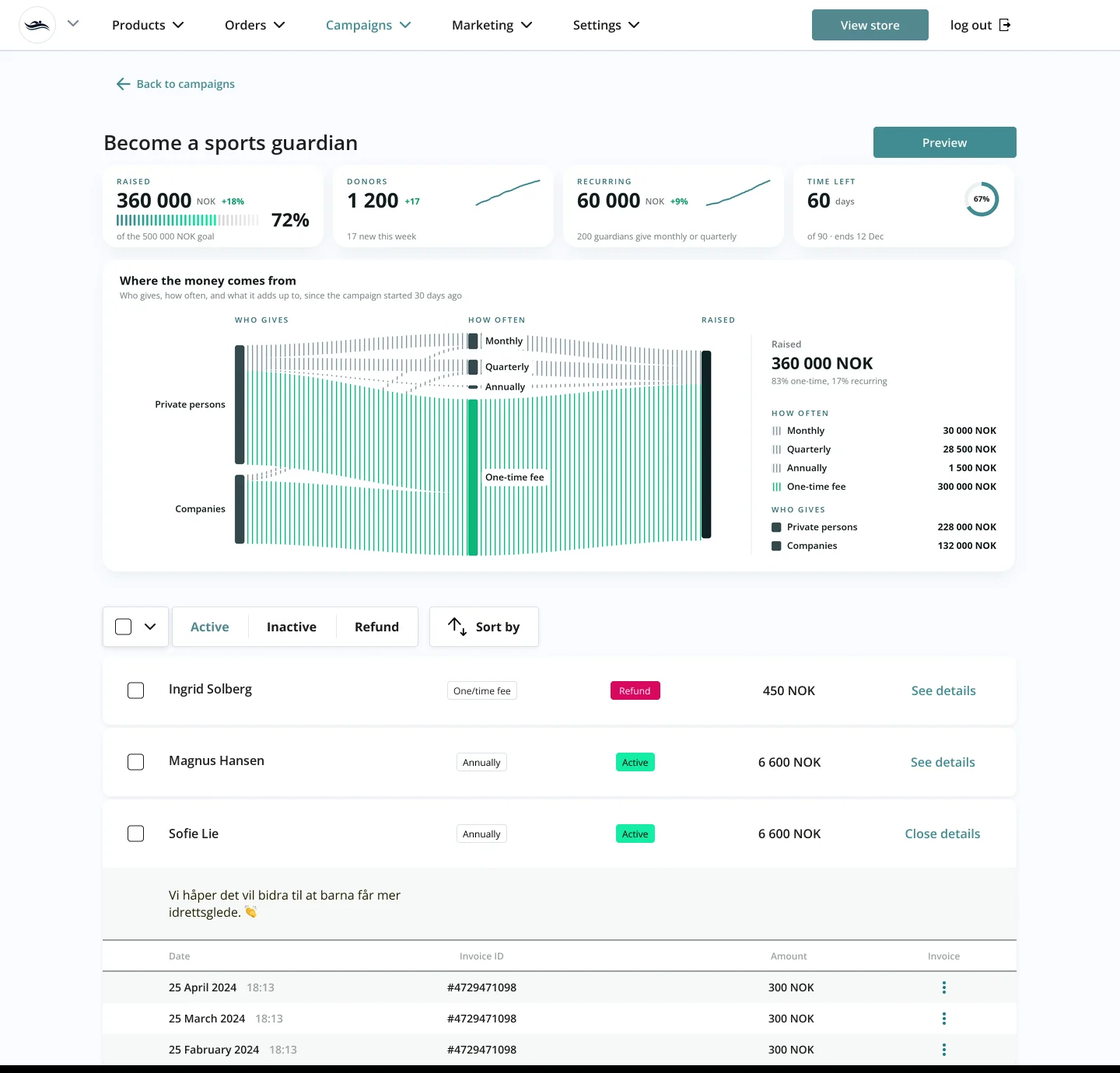
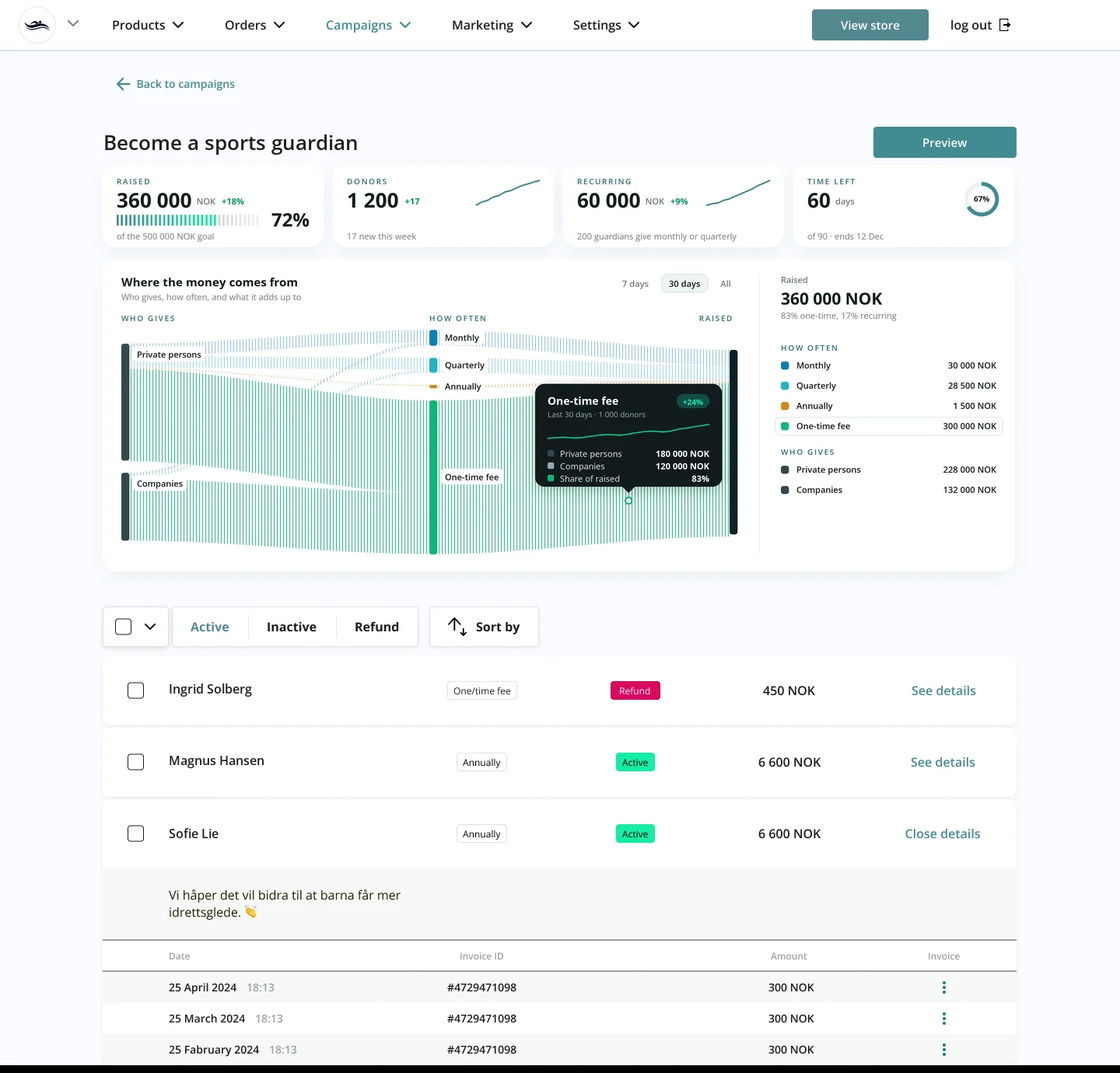
Sport Guardian: refined dashboard flow chart (own colour per frequency, tooltip, no left label column); what a Sankey is and other chart types under the page chart

diff --git a/SportGuardian.html b/SportGuardian.html
@@ -185,6 +185,18 @@ h1{font-size:clamp(34px,5.6vw,80px);line-height:1.03;letter-spacing:-.045em;max-
 @media (prefers-reduced-motion:reduce){.js .rv{opacity:1;transform:none;transition:none}.scroll .vp img{animation:none}}
 
 /* closing mosaic (GEN): rows of tiles sliding sideways on the teal ground */
+/* about the chart, and other chart types (2026-10-13) */
+.charts{display:grid;grid-template-columns:minmax(0,4fr) minmax(0,8fr);gap:clamp(24px,4vw,64px);padding-top:clamp(8px,1vw,16px)}
+.charts h3{margin:0;font-size:clamp(22px,2.2vw,28px);line-height:1.15;font-weight:500;letter-spacing:-.01em}
+.charts .about p{margin:12px 0 0;max-width:62ch;color:var(--muted);font-size:16px;line-height:1.55}
+.charts .about p b{color:var(--ink);font-weight:500}
+.ctypes{list-style:none;margin:16px 0 0;padding:0;display:grid;grid-template-columns:repeat(3,minmax(0,1fr));gap:1px;background:var(--rule);border:1px solid var(--rule)}
+.ctypes li{background:#fff;padding:18px 18px 20px;display:flex;flex-direction:column;gap:6px}
+.ctypes svg{width:56px;height:32px;display:block;margin-bottom:6px}
+.ctypes b{font-weight:500;font-size:16px}
+.ctypes span{color:var(--muted);font-size:14px;line-height:1.45}
+@media (max-width:900px){.charts{grid-template-columns:1fr}.ctypes{grid-template-columns:repeat(2,minmax(0,1fr))}}
+@media (max-width:520px){.ctypes{grid-template-columns:1fr}}
 .mos{position:relative;background:var(--teal);padding-block:clamp(40px,6vw,80px) clamp(72px,8vw,104px);overflow:hidden}
 .ticker{display:flex;width:max-content;animation:slide 40s linear infinite;margin-bottom:clamp(28px,4vw,56px)}
 .ticker span{flex:none;color:#fff;font-size:clamp(56px,11vw,176px);font-weight:500;line-height:.9;letter-spacing:-.04em;text-transform:uppercase;white-space:nowrap;padding-right:.5em}
@@ -296,10 +308,14 @@ footer .wrap{display:flex;justify-content:space-between;gap:16px;flex-wrap:wrap}
 
 <figure class="c5-12 rv" style="--d:.1s"><div class="panel"><img class="el c" src="assets/work/sport-guardian/el-create-donations.webp" alt="From the campaign builder: Accept donations from private persons and companies, and Select donation frequency, from monthly to a one-time fee, each with a short hint." width="1200" height="1183" loading="lazy"></div><figcaption>For the club: who can give and how often, with a hint under every choice.</figcaption></figure>
 
-<figure class="c1-12 rv"><div class="panel"><div class="browser" style="max-width:1000px"><div class="bar" aria-hidden="true"><i></i><i></i><i></i><span>admin.supporter.no</span></div><div class="vp fx" style="--hd:4.514%;aspect-ratio:auto"><img class="hd" src="assets/work/sport-guardian/screen-statistik-head.webp" alt="" width="1440" height="65" loading="lazy"><img src="assets/work/sport-guardian/screen-statistik-body.webp" alt="Campaign statistics in the admin panel: cards for raised with a segmented progress bar, donors, recurring and time left; under them the chart Where the money comes from, private persons 228 000 NOK and companies 132 000 NOK flowing through monthly 30 000, quarterly 28 500, annually 1 500 and one-time 300 000 NOK into 360 000 NOK raised, with the amounts in a legend; then a list of donors with their status." width="1440" height="1315" loading="lazy"></div></div></div><figcaption style="max-width:64ch">The admin panel: what each frequency brings in, and every donor, with refunds and cancellations in one place.</figcaption></figure>
+<figure class="c1-12 rv"><div class="panel"><div class="browser" style="max-width:1000px"><div class="bar" aria-hidden="true"><i></i><i></i><i></i><span>admin.supporter.no</span></div><div class="vp fx" style="--hd:4.514%;aspect-ratio:auto"><img class="hd" src="assets/work/sport-guardian/screen-statistik-head.webp" alt="" width="1440" height="65" loading="lazy"><img src="assets/work/sport-guardian/screen-statistik-body.webp" alt="Campaign statistics in the admin panel: cards for raised with a segmented progress bar, donors, recurring and time left; under them the chart Where the money comes from, private persons 228 000 NOK and companies 132 000 NOK flowing through monthly 30 000, quarterly 28 500, annually 1 500 and one-time 300 000 NOK into 360 000 NOK raised, each frequency in its own colour, a tooltip over the one-time flow with its trend and split, and the amounts in a legend; then a list of donors with their status." width="1440" height="1315" loading="lazy"></div></div></div><figcaption style="max-width:64ch">The admin panel: what each frequency brings in, and every donor, with refunds and cancellations in one place.</figcaption></figure>
       <!-- flow:start -->
       <figure class="c1-12 rv flowfig"><div class="flowpanel"><div class="flowhead"><h3>Where the money comes from</h3><p>Who gives, how often, and what it adds up to, one campaign after 30 days.</p></div><div class="flowscroll" tabindex="0" aria-label="Where the money comes from, chart"><svg class="flowsvg" viewBox="0 0 1200 560" role="img" aria-labelledby="fl-t fl-d"><title id="fl-t">Where the money comes from</title><desc id="fl-d">Private persons give 228 000 NOK and companies 132 000 NOK. By frequency: monthly 30 000, quarterly 28 500, annually 1 500 and one-time 300 000 NOK, together 360 000 NOK raised. The same numbers are in the table below.</desc><defs><pattern id="hatch" width="6" height="8" patternUnits="userSpaceOnUse"><rect x="0" width="1.3" height="8" fill="#fff" fill-opacity=".55"/></pattern><pattern id="hatch-hi" width="6" height="8" patternUnits="userSpaceOnUse"><rect x="0" width="1.6" height="8" fill="#15EDA3"/></pattern></defs><line x1="218.0" y1="96" x2="218.0" y2="538" stroke="#fff" stroke-opacity=".08"/><line x1="598.0" y1="96" x2="598.0" y2="538" stroke="#fff" stroke-opacity=".08"/><line x1="968.0" y1="96" x2="968.0" y2="538" stroke="#fff" stroke-opacity=".08"/><text class="col" x="210" y="80">Who gives</text><text class="col" x="590" y="80">How often</text><text class="col" x="960" y="80">Raised</text><path class="fl" data-f="Monthly" data-s="Private persons" data-v="24 000 NOK" d="M226.0,129.0 C408.0,129.0 408.0,118.7 590.0,118.7 L590.0,140.1 C408.0,140.1 408.0,150.5 226.0,150.5 Z" fill="url(#hatch)"/><path class="fl" data-f="Monthly" data-s="Companies" data-v="6 000 NOK" d="M226.0,392.9 C408.0,392.9 408.0,140.1 590.0,140.1 L590.0,145.5 C408.0,145.5 408.0,398.3 226.0,398.3 Z" fill="url(#hatch)"/><path class="fl" data-f="Quarterly" data-s="Private persons" data-v="22 500 NOK" d="M226.0,150.5 C408.0,150.5 408.0,171.5 590.0,171.5 L590.0,191.6 C408.0,191.6 408.0,170.6 226.0,170.6 Z" fill="url(#hatch)"/><path class="fl" data-f="Quarterly" data-s="Companies" data-v="6 000 NOK" d="M226.0,398.3 C408.0,398.3 408.0,191.6 590.0,191.6 L590.0,197.0 C408.0,197.0 408.0,403.7 226.0,403.7 Z" fill="url(#hatch)"/><path class="fl" data-f="Annually" data-s="Private persons" data-v="1 500 NOK" d="M226.0,170.6 C408.0,170.6 408.0,223.0 590.0,223.0 L590.0,225.0 C408.0,225.0 408.0,172.6 226.0,172.6 Z" fill="url(#hatch)"/><path class="fl hi" data-f="One-time fee" data-s="Private persons" data-v="180 000 NOK" d="M226.0,172.6 C408.0,172.6 408.0,253.0 590.0,253.0 L590.0,414.0 C408.0,414.0 408.0,333.6 226.0,333.6 Z" fill="url(#hatch-hi)"/><path class="fl hi" data-f="One-time fee" data-s="Companies" data-v="120 000 NOK" d="M226.0,403.7 C408.0,403.7 408.0,414.0 590.0,414.0 L590.0,521.3 C408.0,521.3 408.0,511.0 226.0,511.0 Z" fill="url(#hatch-hi)"/><path class="fl" data-f="Monthly" data-s="Raised" data-v="30 000 NOK" d="M606.0,118.7 C783.0,118.7 783.0,159.0 960.0,159.0 L960.0,185.8 C783.0,185.8 783.0,145.5 606.0,145.5 Z" fill="url(#hatch)"/><path class="fl" data-f="Quarterly" data-s="Raised" data-v="28 500 NOK" d="M606.0,171.5 C783.0,171.5 783.0,185.8 960.0,185.8 L960.0,211.3 C783.0,211.3 783.0,197.0 606.0,197.0 Z" fill="url(#hatch)"/><path class="fl" data-f="Annually" data-s="Raised" data-v="1 500 NOK" d="M606.0,223.0 C783.0,223.0 783.0,211.3 960.0,211.3 L960.0,215.3 C783.0,215.3 783.0,227.0 606.0,227.0 Z" fill="url(#hatch)"/><path class="fl hi" data-f="One-time fee" data-s="Raised" data-v="300 000 NOK" d="M606.0,253.0 C783.0,253.0 783.0,215.3 960.0,215.3 L960.0,483.7 C783.0,483.7 783.0,521.3 606.0,521.3 Z" fill="url(#hatch-hi)"/><g class="nd" data-s="Private persons"><rect x="210" y="129.0" width="16" height="203.9" rx="3" fill="#CFE3E4"/><text class="nm" x="192" y="225.0" text-anchor="end">Private persons</text><text class="vl" x="192" y="247.0" text-anchor="end">228 000 NOK</text></g><g class="nd" data-s="Companies"><rect x="210" y="392.9" width="16" height="118.1" rx="3" fill="#CFE3E4"/><text class="nm" x="192" y="446.0" text-anchor="end">Companies</text><text class="vl" x="192" y="468.0" text-anchor="end">132 000 NOK</text></g><g class="nd" data-f="Monthly"><rect x="590" y="118.7" width="16" height="26.8" rx="3" fill="#CFE3E4"/><text class="nm" x="622" y="137.1">Monthly <tspan class="vl">30 000 NOK</tspan></text></g><g class="nd" data-f="Quarterly"><rect x="590" y="171.5" width="16" height="25.5" rx="3" fill="#CFE3E4"/><text class="nm" x="622" y="189.2">Quarterly <tspan class="vl">28 500 NOK</tspan></text></g><g class="nd" data-f="Annually"><rect x="590" y="223.0" width="16" height="4.0" rx="3" fill="#CFE3E4"/><text class="nm" x="622" y="230.0">Annually <tspan class="vl">1 500 NOK</tspan></text></g><g class="nd" data-f="One-time fee"><rect x="590" y="253.0" width="16" height="268.3" rx="3" fill="#15EDA3"/><text class="nm g" x="622" y="392.2">One-time fee <tspan class="vl">300 000 NOK</tspan></text></g><rect x="960" y="159.0" width="16" height="322.0" rx="3" fill="#fff"/><text class="big" x="998" y="326.0">360 000</text><text class="vl" x="1000" y="356.0">NOK raised · 83% one-time</text></svg><div class="fltip" aria-hidden="true"></div></div><table class="vh"><caption>Where the money comes from, in NOK</caption><thead><tr><th scope="col">Who gives</th><th scope="col">Monthly</th><th scope="col">Quarterly</th><th scope="col">Annually</th><th scope="col">One-time fee</th><th scope="col">Total</th></tr></thead><tbody><tr><th scope="row">Private persons</th><td>24 000 NOK</td><td>22 500 NOK</td><td>1 500 NOK</td><td>180 000 NOK</td><td>228 000 NOK</td></tr><tr><th scope="row">Companies</th><td>6 000 NOK</td><td>6 000 NOK</td><td>0 NOK</td><td>120 000 NOK</td><td>132 000 NOK</td></tr><tr><th scope="row">Total</th><td>30 000 NOK</td><td>28 500 NOK</td><td>1 500 NOK</td><td>300 000 NOK</td><td>360 000 NOK</td></tr></tbody></table></div><figcaption>Every krone traced from the donor to the total: most of it comes as one-time gifts, and companies give over a third.</figcaption></figure>
       <!-- flow:end -->
+      <div class="c1-12 rv charts">
+        <div class="about"><h3>What this chart is</h3><p><b>A Sankey diagram.</b> Each band is as wide as the amount it carries, so you can follow the money from who gives, through how often they give, to the total.</p><p><b>When to use it:</b> when a whole splits and merges across stages and the question is where the volume goes, as with a budget, the money in a campaign, or the paths people take through a product. With more than about a dozen nodes, or when exact values must be compared, a table or a bar chart reads better.</p></div>
+        <div><h3>Other charts, and when to use them</h3><ul class="ctypes"><li><svg viewBox="0 0 56 32" aria-hidden="true" focusable="false"><rect x="4" y="16" width="8" height="14" rx="1" fill="#CFE3E4"/><rect x="16" y="6" width="8" height="24" rx="1" fill="#418B91"/><rect x="28" y="12" width="8" height="18" rx="1" fill="#CFE3E4"/><rect x="40" y="20" width="8" height="10" rx="1" fill="#CFE3E4"/></svg><b>Bar chart</b><span>Compares amounts across categories, such as money raised per club or per campaign.</span></li><li><svg viewBox="0 0 56 32" aria-hidden="true" focusable="false"><path d="M3 26 L14 20 L24 22 L34 11 L44 13 L53 4" fill="none" stroke="#418B91" stroke-width="2" stroke-linejoin="round" stroke-linecap="round"/></svg><b>Line chart</b><span>Shows a trend over time, such as money raised day by day.</span></li><li><svg viewBox="0 0 56 32" aria-hidden="true" focusable="false"><path d="M3 26 L14 19 L24 21 L34 11 L44 12 L53 5 V30 H3 Z" fill="#CFE3E4"/><path d="M3 26 L14 19 L24 21 L34 11 L44 12 L53 5" fill="none" stroke="#418B91" stroke-width="2" stroke-linejoin="round"/></svg><b>Area chart</b><span>A line chart with the volume filled in: for a total that builds up over time.</span></li><li><svg viewBox="0 0 56 32" aria-hidden="true" focusable="false"><rect x="4" y="14" width="10" height="16" fill="#418B91"/><rect x="4" y="8" width="10" height="6" fill="#CFE3E4"/><rect x="22" y="10" width="10" height="20" fill="#418B91"/><rect x="22" y="3" width="10" height="7" fill="#CFE3E4"/><rect x="40" y="18" width="10" height="12" fill="#418B91"/><rect x="40" y="12" width="10" height="6" fill="#CFE3E4"/></svg><b>Stacked bar chart</b><span>Parts of a whole, compared across groups, such as one-time and recurring gifts per campaign.</span></li><li><svg viewBox="0 0 56 32" aria-hidden="true" focusable="false"><text x="2" y="21" font-size="12" font-weight="600" fill="#0E0E0E" font-family="sans-serif">60k</text><path d="M28 22 L33 19 L38 20 L43 14 L48 13 L53 8" fill="none" stroke="#418B91" stroke-width="1.6" stroke-linejoin="round" stroke-linecap="round"/></svg><b>Sparkline</b><span>A tiny trend without axes, next to a number on a card, as on the dashboard above.</span></li><li><svg viewBox="0 0 56 32" aria-hidden="true" focusable="false"><circle cx="28" cy="16" r="11" fill="none" stroke="#CFE3E4" stroke-width="5"/><path d="M28 5 A11 11 0 1 1 18.5 21.5" fill="none" stroke="#418B91" stroke-width="5"/></svg><b>Donut or progress ring</b><span>One share of a whole, or progress to a goal; reads best with one to three parts.</span></li><li><svg viewBox="0 0 56 32" aria-hidden="true" focusable="false"><rect x="4" y="3" width="48" height="6" rx="1" fill="#418B91"/><rect x="11" y="12" width="34" height="6" rx="1" fill="#418B91" fill-opacity=".7"/><rect x="18" y="21" width="20" height="6" rx="1" fill="#418B91" fill-opacity=".45"/></svg><b>Funnel chart</b><span>How many people drop off between the steps of a flow, from the campaign page to the payment.</span></li><li><svg viewBox="0 0 56 32" aria-hidden="true" focusable="false"><rect x="4" y="3" width="9" height="8" rx="1" fill="#418B91" fill-opacity="0.2"/><rect x="14" y="3" width="9" height="8" rx="1" fill="#418B91" fill-opacity="0.5"/><rect x="24" y="3" width="9" height="8" rx="1" fill="#418B91" fill-opacity="0.9"/><rect x="34" y="3" width="9" height="8" rx="1" fill="#418B91" fill-opacity="0.6"/><rect x="44" y="3" width="9" height="8" rx="1" fill="#418B91" fill-opacity="0.3"/><rect x="4" y="12" width="9" height="8" rx="1" fill="#418B91" fill-opacity="0.4"/><rect x="14" y="12" width="9" height="8" rx="1" fill="#418B91" fill-opacity="0.8"/><rect x="24" y="12" width="9" height="8" rx="1" fill="#418B91" fill-opacity="1"/><rect x="34" y="12" width="9" height="8" rx="1" fill="#418B91" fill-opacity="0.7"/><rect x="44" y="12" width="9" height="8" rx="1" fill="#418B91" fill-opacity="0.2"/><rect x="4" y="21" width="9" height="8" rx="1" fill="#418B91" fill-opacity="0.1"/><rect x="14" y="21" width="9" height="8" rx="1" fill="#418B91" fill-opacity="0.3"/><rect x="24" y="21" width="9" height="8" rx="1" fill="#418B91" fill-opacity="0.5"/><rect x="34" y="21" width="9" height="8" rx="1" fill="#418B91" fill-opacity="0.4"/><rect x="44" y="21" width="9" height="8" rx="1" fill="#418B91" fill-opacity="0.15"/></svg><b>Heatmap</b><span>Patterns across two dimensions, such as donations by weekday and hour.</span></li><li><svg viewBox="0 0 56 32" aria-hidden="true" focusable="false"><circle cx="6" cy="26" r="2.6" fill="#418B91"/><circle cx="12" cy="23" r="2.6" fill="#418B91"/><circle cx="16" cy="24" r="2.6" fill="#418B91"/><circle cx="21" cy="19" r="2.6" fill="#418B91"/><circle cx="26" cy="18" r="2.6" fill="#418B91"/><circle cx="30" cy="15" r="2.6" fill="#418B91"/><circle cx="35" cy="14" r="2.6" fill="#418B91"/><circle cx="39" cy="10" r="2.6" fill="#418B91"/><circle cx="44" cy="11" r="2.6" fill="#418B91"/><circle cx="49" cy="6" r="2.6" fill="#418B91"/><circle cx="24" cy="25" r="2.6" fill="#418B91"/><circle cx="42" cy="20" r="2.6" fill="#418B91"/></svg><b>Scatter plot</b><span>How two measures relate, such as the size of a gift and how often the donor gives.</span></li></ul></div>
+      </div>
 
 </div>
   </section>

diff --git a/tools/sport-guardian/sankey.py b/tools/sport-guardian/sankey.py
@@ -77,14 +77,21 @@ def dashboard_sankey(im, H_BLOCK=470, chart=True):
 
     if not chart:
         return out
-    # the flow card (2026-10-13, her request: the "Where the money comes from" chart on the dashboard too, drawn like
-    # the page's own chart as fields of thin vertical lines, One-time fee in green, the rest grey; the amounts are not
-    # written on the chart but in a legend with markers on the right)
+    # the flow card (2026-10-13, her requests: the "Where the money comes from" chart on the dashboard too; then
+    # "more refined, each flow its own colour", no wide label column on the left, and a tooltip like her node-network
+    # reference: the screen shows the chart as if the pointer rests on One-time fee, with a dark tooltip card)
+    from PIL import ImageChops
     s = S; y1 = y0+h0+16; w1 = 1305-x0; h1 = H_BLOCK-(y1-207)-12
     c = card(x0, y1, w1, h1); d = ImageDraw.Draw(c)
-    d.text((22*s, 16*s), 'Where the money comes from', font=FONT('Bold', 15*s), fill=INKD)
-    d.text((22*s, 38*s), 'Who gives, how often, and what it adds up to, since the campaign started 30 days ago', font=FONT('Regular', 11*s), fill=MUT)
-    ct, cb, gapn = 96*s, (h1-22)*s, 14*s
+    d.text((24*s, 18*s), 'Where the money comes from', font=FONT('Bold', 15*s), fill=INKD)
+    d.text((24*s, 40*s), 'Who gives, how often, and what it adds up to', font=FONT('Regular', 11*s), fill=MUT)
+    # period switch, top right of the chart area
+    pf = FONT('SemiBold', 11*s); px = 668*s
+    for k, t in enumerate(['7 days', '30 days', 'All']):
+        tw = d.textlength(t, font=pf); on = k == 1
+        if on: d.rounded_rectangle((px-10*s, 18*s, px+tw+10*s, 42*s), 8*s, fill=(238, 244, 245), outline=(214, 226, 228), width=s)
+        d.text((px, 23*s), t, font=pf, fill=INKD if on else MUT); px += tw+26*s
+    ct, cb, gapn = 92*s, (h1-24)*s, 16*s
     total = sum(FLOWS.values()); kk = ((cb-ct)-gapn*3)/total
     hgt = lambda v: max(v*kk, 4*s)
 
@@ -95,68 +102,87 @@ def dashboard_sankey(im, H_BLOCK=470, chart=True):
         return pos
     srcs = ['Private persons', 'Companies']; sv = [sum(v for (a, b), v in FLOWS.items() if a == n) for n in srcs]
     fr = [n for n, _ in FREQ]; fv = [sum(v for (a, b), v in FLOWS.items() if b == n) for n in fr]
-    xL, xM, xR, nw = 170*s, 470*s, 770*s, 12*s
+    col = dict(FREQ); FOCUS = 'One-time fee'
+    xL, xM, xR, nw = 24*s, 420*s, 806*s, 10*s
     P = stack(srcs, sv); M = stack(fr, fv)
     ry = ct+((cb-ct)-total*kk)/2; R = [ry, ry+total*kk, ry]
-    GREY, HI = (128, 150, 155), (13, 181, 122)
-    m_grey = Image.new('L', c.size, 0); m_hi = Image.new('L', c.size, 0)
-    dg, dh = ImageDraw.Draw(m_grey), ImageDraw.Draw(m_hi)
+    masks = {f: Image.new('L', c.size, 0) for f in fr}
     for f in fr:
+        md = ImageDraw.Draw(masks[f])
         for sname in srcs:
             v = FLOWS.get((sname, f))
             if not v: continue
             h = max(v*kk, 2*s); a0 = P[sname][2]; P[sname][2] += h; b0 = M[f][2]; M[f][2] += h
-            _ribbon(dh if f == 'One-time fee' else dg, xL+nw, a0, a0+h, xM, b0, b0+h, 255)
+            _ribbon(md, xL+nw, a0, a0+h, xM, b0, b0+h, 255)
     for f in fr:
         h = max(M[f][1]-M[f][0], 2*s); a0 = M[f][0]; b0 = R[2]; R[2] += (M[f][1]-M[f][0])
-        _ribbon(dh if f == 'One-time fee' else dg, xM+nw, a0, a0+h, xR, b0, b0+h, 255)
-    # thin vertical lines, 6 px apart, as on the page's chart
+        _ribbon(ImageDraw.Draw(masks[f]), xM+nw, a0, a0+h, xR, b0, b0+h, 255)
+    # fine vertical lines, 1 px every 4 px; the hovered flow at full strength, the others quieter
     stripes = Image.new('L', c.size, 0); sd = ImageDraw.Draw(stripes)
-    for x in range(0, c.width, 6*s): sd.rectangle((x, 0, x+int(1.4*s)-1, c.height), fill=255)
-    from PIL import ImageChops
-    for m, colr in ((m_grey, GREY), (m_hi, HI)):
-        lay = Image.new('RGBA', c.size, colr+(0,)); lay.putalpha(ImageChops.multiply(m, stripes)); c = Image.alpha_composite(c, lay)
+    for x in range(0, c.width, 4*s): sd.rectangle((x, 0, x+s-1, c.height), fill=255)
+    for f in fr:
+        a = ImageChops.multiply(masks[f], stripes).point(lambda v, k=(235 if f == FOCUS else 120): v*k//255)
+        lay = Image.new('RGBA', c.size, col[f]+(0,)); lay.putalpha(a); c = Image.alpha_composite(c, lay)
     d = ImageDraw.Draw(c)
     hf = FONT('SemiBold', 10*s)
-    for x, t in ((xL, 'WHO GIVES'), (xM, 'HOW OFTEN'), (xR, 'RAISED')):
-        _tracked(d, (x, 70*s), t, hf, LAB, 1.6*s)
-    nf = FONT('SemiBold', 12*s); NODE = (52, 72, 76)
+    for x, t in ((xL, 'WHO GIVES'), (xM, 'HOW OFTEN')):
+        _tracked(d, (x, 68*s), t, hf, LAB, 1.6*s)
+    rt = 'RAISED'; _tracked(d, (xR+nw-(len(rt)*8.2)*s, 68*s), rt, hf, LAB, 1.6*s)
+    lf = FONT('SemiBold', 11*s); NODE = (52, 72, 76)
+
+    def plate(x, y, t, fill=INKD):  # a small white plate so a label reads over the lines
+        tw = d.textlength(t, font=lf); d.rounded_rectangle((x-5*s, y-3*s, x+tw+5*s, y+17*s), 5*s, fill=(255, 255, 255))
+        d.text((x, y), t, font=lf, fill=fill)
     for n in srcs:
-        a, b = P[n][0], P[n][1]; d.rounded_rectangle((xL, a, xL+nw, b), 3*s, fill=NODE); ym = (a+b)/2
-        d.text((xL-12*s-d.textlength(n, font=nf), ym-9*s), n, font=nf, fill=INKD)
+        a, b = P[n][0], P[n][1]; d.rounded_rectangle((xL, a, xL+nw, b), 3*s, fill=NODE)
+        plate(xL+nw+10*s, a+6*s, n)
     for n in fr:
-        a, b = M[n][0], max(M[n][1], M[n][0]+4*s); hi = n == 'One-time fee'
-        d.rounded_rectangle((xM, a, xM+nw, b), 2*s, fill=HI if hi else NODE); ym = (a+b)/2
-        tw = d.textlength(n, font=nf)  # a white label plate so the name reads over the lines
-        d.rounded_rectangle((xM+nw+5*s, ym-11*s, xM+nw+15*s+tw, ym+11*s), 5*s, fill=(255, 255, 255))
-        d.text((xM+nw+10*s, ym-9*s), n, font=nf, fill=INKD)
+        a, b = M[n][0], max(M[n][1], M[n][0]+4*s); ym = (a+b)/2
+        d.rounded_rectangle((xM, a, xM+nw, b), 3*s, fill=col[n])
+        plate(xM+nw+10*s, ym-8*s, n)
     d.rounded_rectangle((xR, R[0], xR+nw, R[1]), 3*s, fill=(14, 34, 37))
-    # the legend: every amount next to a marker that matches its flow
-    lx, rx = 860*s, (w1-24)*s
-    d.line((lx-26*s, ct, lx-26*s, cb), fill=(230, 236, 238), width=s)
-    y = ct+4*s
-    d.text((lx, y), 'Raised', font=nf, fill=MUT)
-    d.text((lx, y+18*s), '360 000 NOK', font=FONT('Bold', 21*s), fill=INKD)
-    d.text((lx, y+48*s), '83% one-time, 17% recurring', font=FONT('Regular', 11*s), fill=MUT)
-    vf = FONT('Bold', 12*s)
 
-    def mark(x, yc, kind):
-        box = (x, yc-6*s, x+12*s, yc+6*s)
-        if kind == 'node':
-            d.rounded_rectangle(box, 2*s, fill=NODE); return
-        col = HI if kind == 'hi' else GREY
-        d.rounded_rectangle(box, 2*s, outline=(226, 232, 234), width=s)
-        for k in range(3): d.rectangle((x+(2+4*k)*s, yc-5*s, x+(2+4*k)*s+int(1.4*s)-1, yc+5*s), fill=col)
+    # the tooltip, as if the pointer rests on the One-time fee flow
+    a, b = M[FOCUS][0], M[FOCUS][1]; ptx, pty = 676*s, (a+b)/2+30*s
+    d.ellipse((ptx-5*s, pty-5*s, ptx+5*s, pty+5*s), fill=(255, 255, 255), outline=col[FOCUS], width=2*s)
+    tx, ty, tw_, th = 556*s, pty-150*s, 240*s, 132*s
+    sh = Image.new('L', c.size, 0); ImageDraw.Draw(sh).rounded_rectangle((tx, ty+6*s, tx+tw_, ty+th+6*s), 12*s, fill=70)
+    shl = Image.new('RGBA', c.size, (10, 25, 28, 0)); shl.putalpha(sh.filter(ImageFilter.GaussianBlur(10*s))); c = Image.alpha_composite(c, shl)
+    d = ImageDraw.Draw(c); TT = (17, 27, 29); TM = (150, 168, 171)
+    d.rounded_rectangle((tx, ty, tx+tw_, ty+th), 12*s, fill=TT)
+    d.polygon([(ptx-8*s, ty+th), (ptx+8*s, ty+th), (ptx, ty+th+8*s)], fill=TT)
+    d.text((tx+16*s, ty+12*s), 'One-time fee', font=FONT('Bold', 14*s), fill=(255, 255, 255))
+    d.text((tx+16*s, ty+32*s), 'Last 30 days · 1 000 donors', font=FONT('Regular', 10*s), fill=TM)
+    ch = '+24%'; cf = FONT('Bold', 10*s); cw = d.textlength(ch, font=cf)
+    d.rounded_rectangle((tx+tw_-16*s-cw-16*s, ty+13*s, tx+tw_-16*s, ty+31*s), 9*s, fill=(17, 77, 70))
+    d.text((tx+tw_-16*s-cw-8*s, ty+16*s), ch, font=cf, fill=GREEN)
+    _spark(d, (tx+16*s, ty+52*s, tx+tw_-16*s, ty+70*s), [5, 7, 6, 9, 12, 11, 15, 18, 17, 22, 26, 30], col[FOCUS], None, 2*s)
+    rf, vf2 = FONT('Regular', 11*s), FONT('Bold', 11*s)
+    for k, (dot, t, v) in enumerate([(NODE, 'Private persons', '180 000 NOK'), ((150, 170, 174), 'Companies', '120 000 NOK'), (col[FOCUS], 'Share of raised', '83%')]):
+        yy = ty+82*s+k*16*s
+        d.rounded_rectangle((tx+16*s, yy+3*s, tx+24*s, yy+11*s), 2*s, fill=dot)
+        d.text((tx+32*s, yy), t, font=rf, fill=(220, 230, 231))
+        d.text((tx+tw_-16*s-d.textlength(v, font=vf2), yy), v, font=vf2, fill=(255, 255, 255))
 
-    y += 84*s
-    rows = [('HOW OFTEN', None, None)] + [(n, v, 'hi' if n == 'One-time fee' else 'grey') for n, v in zip(fr, fv)] \
-         + [('WHO GIVES', None, None)] + [(n, v, 'node') for n, v in zip(srcs, sv)]
-    for n, v, kind in rows:
+    # the legend on the right: every amount next to a marker in its flow's colour
+    lx, rx = 872*s, (w1-24)*s
+    d.line((lx-28*s, 18*s, lx-28*s, cb), fill=(232, 238, 240), width=s)
+    y = 18*s
+    d.text((lx, y), 'Raised', font=lf, fill=MUT)
+    d.text((lx, y+17*s), '360 000 NOK', font=FONT('Bold', 21*s), fill=INKD)
+    d.text((lx, y+46*s), '83% one-time, 17% recurring', font=FONT('Regular', 11*s), fill=MUT)
+    vf = FONT('SemiBold', 11*s)
+    y += 80*s
+    rows = [('HOW OFTEN', None, None)] + [(n, v, col[n]) for n, v in zip(fr, fv)] \
+         + [('WHO GIVES', None, None)] + [(n, v, NODE) for n, v in zip(srcs, sv)]
+    for n, v, mc in rows:
         if v is None:
-            y += 6*s; _tracked(d, (lx, y), n, hf, LAB, 1.6*s); y += 22*s; continue
-        yc = y+8*s; mark(lx, yc, kind)
-        d.text((lx+20*s, yc-9*s), n, font=nf, fill=INKD)
-        t = f'{v:,}'.replace(',', ' ')+' NOK'; d.text((rx-d.textlength(t, font=vf), yc-9*s), t, font=vf, fill=INKD)
-        y += 24*s
+            y += 8*s; _tracked(d, (lx, y), n, hf, LAB, 1.6*s); y += 22*s; continue
+        yc = y+8*s
+        d.rounded_rectangle((lx, yc-5*s, lx+10*s, yc+5*s), 3*s, fill=mc)
+        if n == FOCUS: d.rounded_rectangle((lx-8*s, yc-12*s, rx+8*s, yc+12*s), 7*s, outline=(214, 236, 226), width=s)
+        d.text((lx+20*s, yc-8*s), n, font=lf, fill=INKD)
+        t = f'{v:,}'.replace(',', ' ')+' NOK'; d.text((rx-d.textlength(t, font=vf), yc-8*s), t, font=vf, fill=INKD)
+        y += 26*s
     put(c, x0, y1)
     return out

diff --git a/sportguardian.md b/sportguardian.md
@@ -40,8 +40,9 @@ Order (2026-10-13, her request, last change): header → the moving mosaic → A
    (the desktop page: a browser frame, scrolling slowly under its fixed header, on a pale panel)
    - (swapped, her request) on a pale panel (1–5) two phone-size screens, paying by card and paying with Vipps (`m-step-4.webp`, `m-vipps-2.webp`), larger, the card one higher on the left and the Vipps one lower on the right (her request), as tall as the phone panel; the phone on a teal panel (6–9) playing the flow; the caption on the right (10–12): **Card or Vipps.** Donors pay by card, or with Vipps, the mobile payment app used only in the Nordic countries: in Norway most people pay with it in one tap, and donors from anywhere else pay by card. The phone has no caption and no visible Pause button (her request); for WCAG 2.2.2 it stops while the pointer is over it, and a click, a tap or Enter / Space on it stops or starts it (screen readers hear how). The desktop page has no caption or Pause button either (her request); it stops the same way: hover, click, tap, Enter or Space. The card and Vipps screens are 41% of their panel wide with 7% at the sides, between the earlier small and large sizes, to sit with the phone next to them. Her card frame says "Pay 630 NOK"; it reads 603 NOK like the rest of the flow (`mobile_frames.py` also rewrites `card-credit-card.webp`, so run it after `export_assets.py`).
    - the donor list on a teal panel (1–4); the campaign builder's "Accept donations from / Select donation frequency" block on a pale panel (5–12): single elements, as she asked, since the full builder page is not its best side;
-   - the campaign statistics in the admin panel in a browser frame, scrolling under the fixed admin nav (1–12), shown whole, with no scroll (her request: the whole dashboard is visible). The five frequency cards are redrawn as modern dashboard cards ("like crypto dashboards, with charts"): label and donor count, the amount, a growth chip, a small area chart with a gradient; One-time fee is the highlighted dark card with a green chart; chart data is made up ([`tools/sport-guardian/stat_cards.py`](tools/sport-guardian/stat_cards.py)). The caption runs in two lines (64ch). Redrawn 2026-10-13 after her sales dashboard reference (inspiration 22): light rounded cards with soft shadows, small uppercase letter-spaced labels, big numbers with the change in green beside them, one line of context, a small sparkline, and a bar for each frequency's share of all money raised; One-time fee is the dark card with a bright green bar. Top row: RAISED 360 000 NOK, +18% this week, the bar to the 500 000 NOK goal and "200 donors · 17 new this week"; TIME LEFT 60 days with a ring, over the One-time fee card. Then (2026-10-13, her request: one row of cards and a modern chart under it) rebuilt again by `dashboard_sankey()` in [`tools/sport-guardian/sankey.py`](tools/sport-guardian/sankey.py): one row of four cards, RAISED 360 000 NOK +18% with the goal bar, DONORS 1 200 +17 with a sparkline, RECURRING 60 000 NOK +9% with a sparkline, TIME LEFT 60 days with a ring; under it a Sankey, "Where the money comes from": private persons (228 000 NOK) and companies (132 000 NOK) flow through Monthly, Quarterly, Annually and One-time fee into 360 000 NOK raised. The split between private persons and companies is made up; the totals match the cards. The four frequency colours (#0A7FB0, #22B3C4, #D08A1C, #0DB57A) passed the dataviz palette validator on the light surface (lightness, chroma, colour-blind and normal-vision separation); contrast is a warning, so every node has a text label. Later the same day (her request, references 23 and 24): the admin screen keeps only the row of four cards (`dashboard_sankey(..., chart=False)`, the screen 104 px taller than her frame); RAISED shows a segmented progress of 34 thin vertical bars, teal to green for the share raised, fading grey for the rest, with a large 72% beside it. Later again (2026-10-13, her request: "add this chart to the dashboard too", amounts as tooltips or a legend with markers): the chart is back under the row of cards (`dashboard_sankey(st, H_BLOCK=540)`, the body screen now 1440 × 1315), drawn like the page's own flow chart: fields of thin vertical lines, One-time fee in green, the other flows grey, column heads WHO GIVES, HOW OFTEN, RAISED; the nodes carry names only, each frequency name on a white plate so it reads over the lines. The amounts sit in a legend on the right with a marker for each flow (a legend rather than tooltips, because the screen is an image and a legend also works on touch and for keyboard users): Raised 360 000 NOK, 83% one-time, 17% recurring; How often: Monthly 30 000, Quarterly 28 500, Annually 1 500, One-time fee 300 000 NOK; Who gives: Private persons 228 000, Companies 132 000 NOK.
+   - the campaign statistics in the admin panel in a browser frame, scrolling under the fixed admin nav (1–12), shown whole, with no scroll (her request: the whole dashboard is visible). The five frequency cards are redrawn as modern dashboard cards ("like crypto dashboards, with charts"): label and donor count, the amount, a growth chip, a small area chart with a gradient; One-time fee is the highlighted dark card with a green chart; chart data is made up ([`tools/sport-guardian/stat_cards.py`](tools/sport-guardian/stat_cards.py)). The caption runs in two lines (64ch). Redrawn 2026-10-13 after her sales dashboard reference (inspiration 22): light rounded cards with soft shadows, small uppercase letter-spaced labels, big numbers with the change in green beside them, one line of context, a small sparkline, and a bar for each frequency's share of all money raised; One-time fee is the dark card with a bright green bar. Top row: RAISED 360 000 NOK, +18% this week, the bar to the 500 000 NOK goal and "200 donors · 17 new this week"; TIME LEFT 60 days with a ring, over the One-time fee card. Then (2026-10-13, her request: one row of cards and a modern chart under it) rebuilt again by `dashboard_sankey()` in [`tools/sport-guardian/sankey.py`](tools/sport-guardian/sankey.py): one row of four cards, RAISED 360 000 NOK +18% with the goal bar, DONORS 1 200 +17 with a sparkline, RECURRING 60 000 NOK +9% with a sparkline, TIME LEFT 60 days with a ring; under it a Sankey, "Where the money comes from": private persons (228 000 NOK) and companies (132 000 NOK) flow through Monthly, Quarterly, Annually and One-time fee into 360 000 NOK raised. The split between private persons and companies is made up; the totals match the cards. The four frequency colours (#0A7FB0, #22B3C4, #D08A1C, #0DB57A) passed the dataviz palette validator on the light surface (lightness, chroma, colour-blind and normal-vision separation); contrast is a warning, so every node has a text label. Later the same day (her request, references 23 and 24): the admin screen keeps only the row of four cards (`dashboard_sankey(..., chart=False)`, the screen 104 px taller than her frame); RAISED shows a segmented progress of 34 thin vertical bars, teal to green for the share raised, fading grey for the rest, with a large 72% beside it. Later again (2026-10-13, her request: "add this chart to the dashboard too", amounts as tooltips or a legend with markers): the chart is back under the row of cards (`dashboard_sankey(st, H_BLOCK=540)`, the body screen now 1440 × 1315), drawn like the page's own flow chart: fields of thin vertical lines, One-time fee in green, the other flows grey, column heads WHO GIVES, HOW OFTEN, RAISED; the nodes carry names only, each frequency name on a white plate so it reads over the lines. The amounts sit in a legend on the right with a marker for each flow (a legend rather than tooltips, because the screen is an image and a legend also works on touch and for keyboard users): Raised 360 000 NOK, 83% one-time, 17% recurring; How often: Monthly 30 000, Quarterly 28 500, Annually 1 500, One-time fee 300 000 NOK; Who gives: Private persons 228 000, Companies 132 000 NOK. Refined the same day (her request: "more refined, mark it in different colours", with her node-network reference: a dark tooltip card, room kept at the sides): finer lines (1 px every 4 px), each frequency in its own colour from the validated palette (Monthly #0A7FB0, Quarterly #22B3C4, Annually #D08A1C, One-time fee #0DB57A); the wide label column on the left is gone, the source nodes sit at the left edge with their names on small white plates beside them; a period switch (7 days, 30 days, All) top right. The screen shows the chart as if the pointer rests on One-time fee: that flow at full strength, the others quieter, and a dark tooltip card with "One-time fee", "Last 30 days · 1 000 donors", a +24% chip, a green sparkline, and Private persons 180 000 NOK, Companies 120 000 NOK, Share of raised 83%; its row in the legend is outlined. The legend markers carry the same colours.
    - **Where the money comes from** — its own block across the grid, right after the admin panel: a deep teal panel with a soft glow; the flows from WHO GIVES (Private persons 228 000 NOK, Companies 132 000 NOK) through HOW OFTEN (Monthly, Quarterly, Annually, One-time fee) to RAISED (360 000 NOK, 83% one-time) are drawn as fields of thin vertical lines, after her reference; the One-time fee path is the brand green, the rest white. Built as SVG by [`tools/sport-guardian/flow_svg.py`](tools/sport-guardian/flow_svg.py), written into the page between `<!-- flow:start -->` and `<!-- flow:end -->`. Hovering a flow or a node lights up its path and shows the amount; every node has a text label and value (never colour alone), and a hidden table with the same numbers serves screen readers; on narrow screens the chart scrolls sideways. Caption: "Every krone traced from the donor to the total: most of it comes as one-time gifts, and companies give over a third." The split between private persons and companies is made up for the mockup. The admin header (her request): the club's swimmer mark from the campaign page in a round badge instead of the "Logo" placeholder; the amount raised and the time left share one card across the whole cards row, on a deep-teal-to-teal gradient with a soft green glow on the right so it stands out (her request): on the left "Raised 360 000 NOK" with a "+18% this week" chip and a teal-to-green bar, "72% of 500 000 NOK goal"; on the right a small stopwatch whose teal ring shows the time left, "Time left 60 days, ends 12 Dec". The 90 days, the goal, the end date and the weekly growth are made up for the mockup.
+   - **What this chart is / Other charts, and when to use them** (2026-10-13, her request), right under Where the money comes from: on the left (4 of 12 columns) "What this chart is": *A Sankey diagram.* Each band is as wide as the amount it carries, so you can follow the money from who gives, through how often they give, to the total. *When to use it:* when a whole splits and merges across stages and the question is where the volume goes, as with a budget, the money in a campaign, or the paths people take through a product. With more than about a dozen nodes, or when exact values must be compared, a table or a bar chart reads better. On the right (8 columns) "Other charts, and when to use them", a 3 × 3 grid (2 columns under 900 px, 1 under 520 px), each with a small teal glyph: Bar chart (compares amounts across categories, such as money raised per club or per campaign); Line chart (a trend over time, such as money raised day by day); Area chart (a line chart with the volume filled in: for a total that builds up over time); Stacked bar chart (parts of a whole, compared across groups, such as one-time and recurring gifts per campaign); Sparkline (a tiny trend without axes, next to a number on a card, as on the dashboard above); Donut or progress ring (one share of a whole, or progress to a goal; reads best with one to three parts); Funnel chart (how many people drop off between the steps of a flow, from the campaign page to the payment); Heatmap (patterns across two dimensions, such as donations by weekday and hour); Scatter plot (how two measures relate, such as the size of a gift and how often the donor gives). Written into the page after `<!-- flow:end -->`, so `flow_svg.py` leaves it alone.
    Fixed headers: each long screen is cut into a header strip and a body (`*-head.webp`, `*-body.webp`) by [`tools/sport-guardian/fix_screens.py`](tools/sport-guardian/fix_screens.py). The same script replaces placeholder texts in the admin screens with made-up names: the statistics title "Become a sports guardian" and donors Ingrid Solberg, Magnus Hansen, Sofie Lie; the campaigns "Swimming for everyone", "Junior squad 2024"; the clubs Fjordby Svømmeklubb, Nordlys Fotball, Elvebakken Tennis. Not real people or clubs.
 5. **Brand** (mockups, not a real campaign):
    - the hoodie photo (the mark alone on its back) across the grid (1–12), 16:8, in place of the logo banner (her request, 2026-10-13); right under it the caption about the mark, no title, in two lines (64ch; her request);
